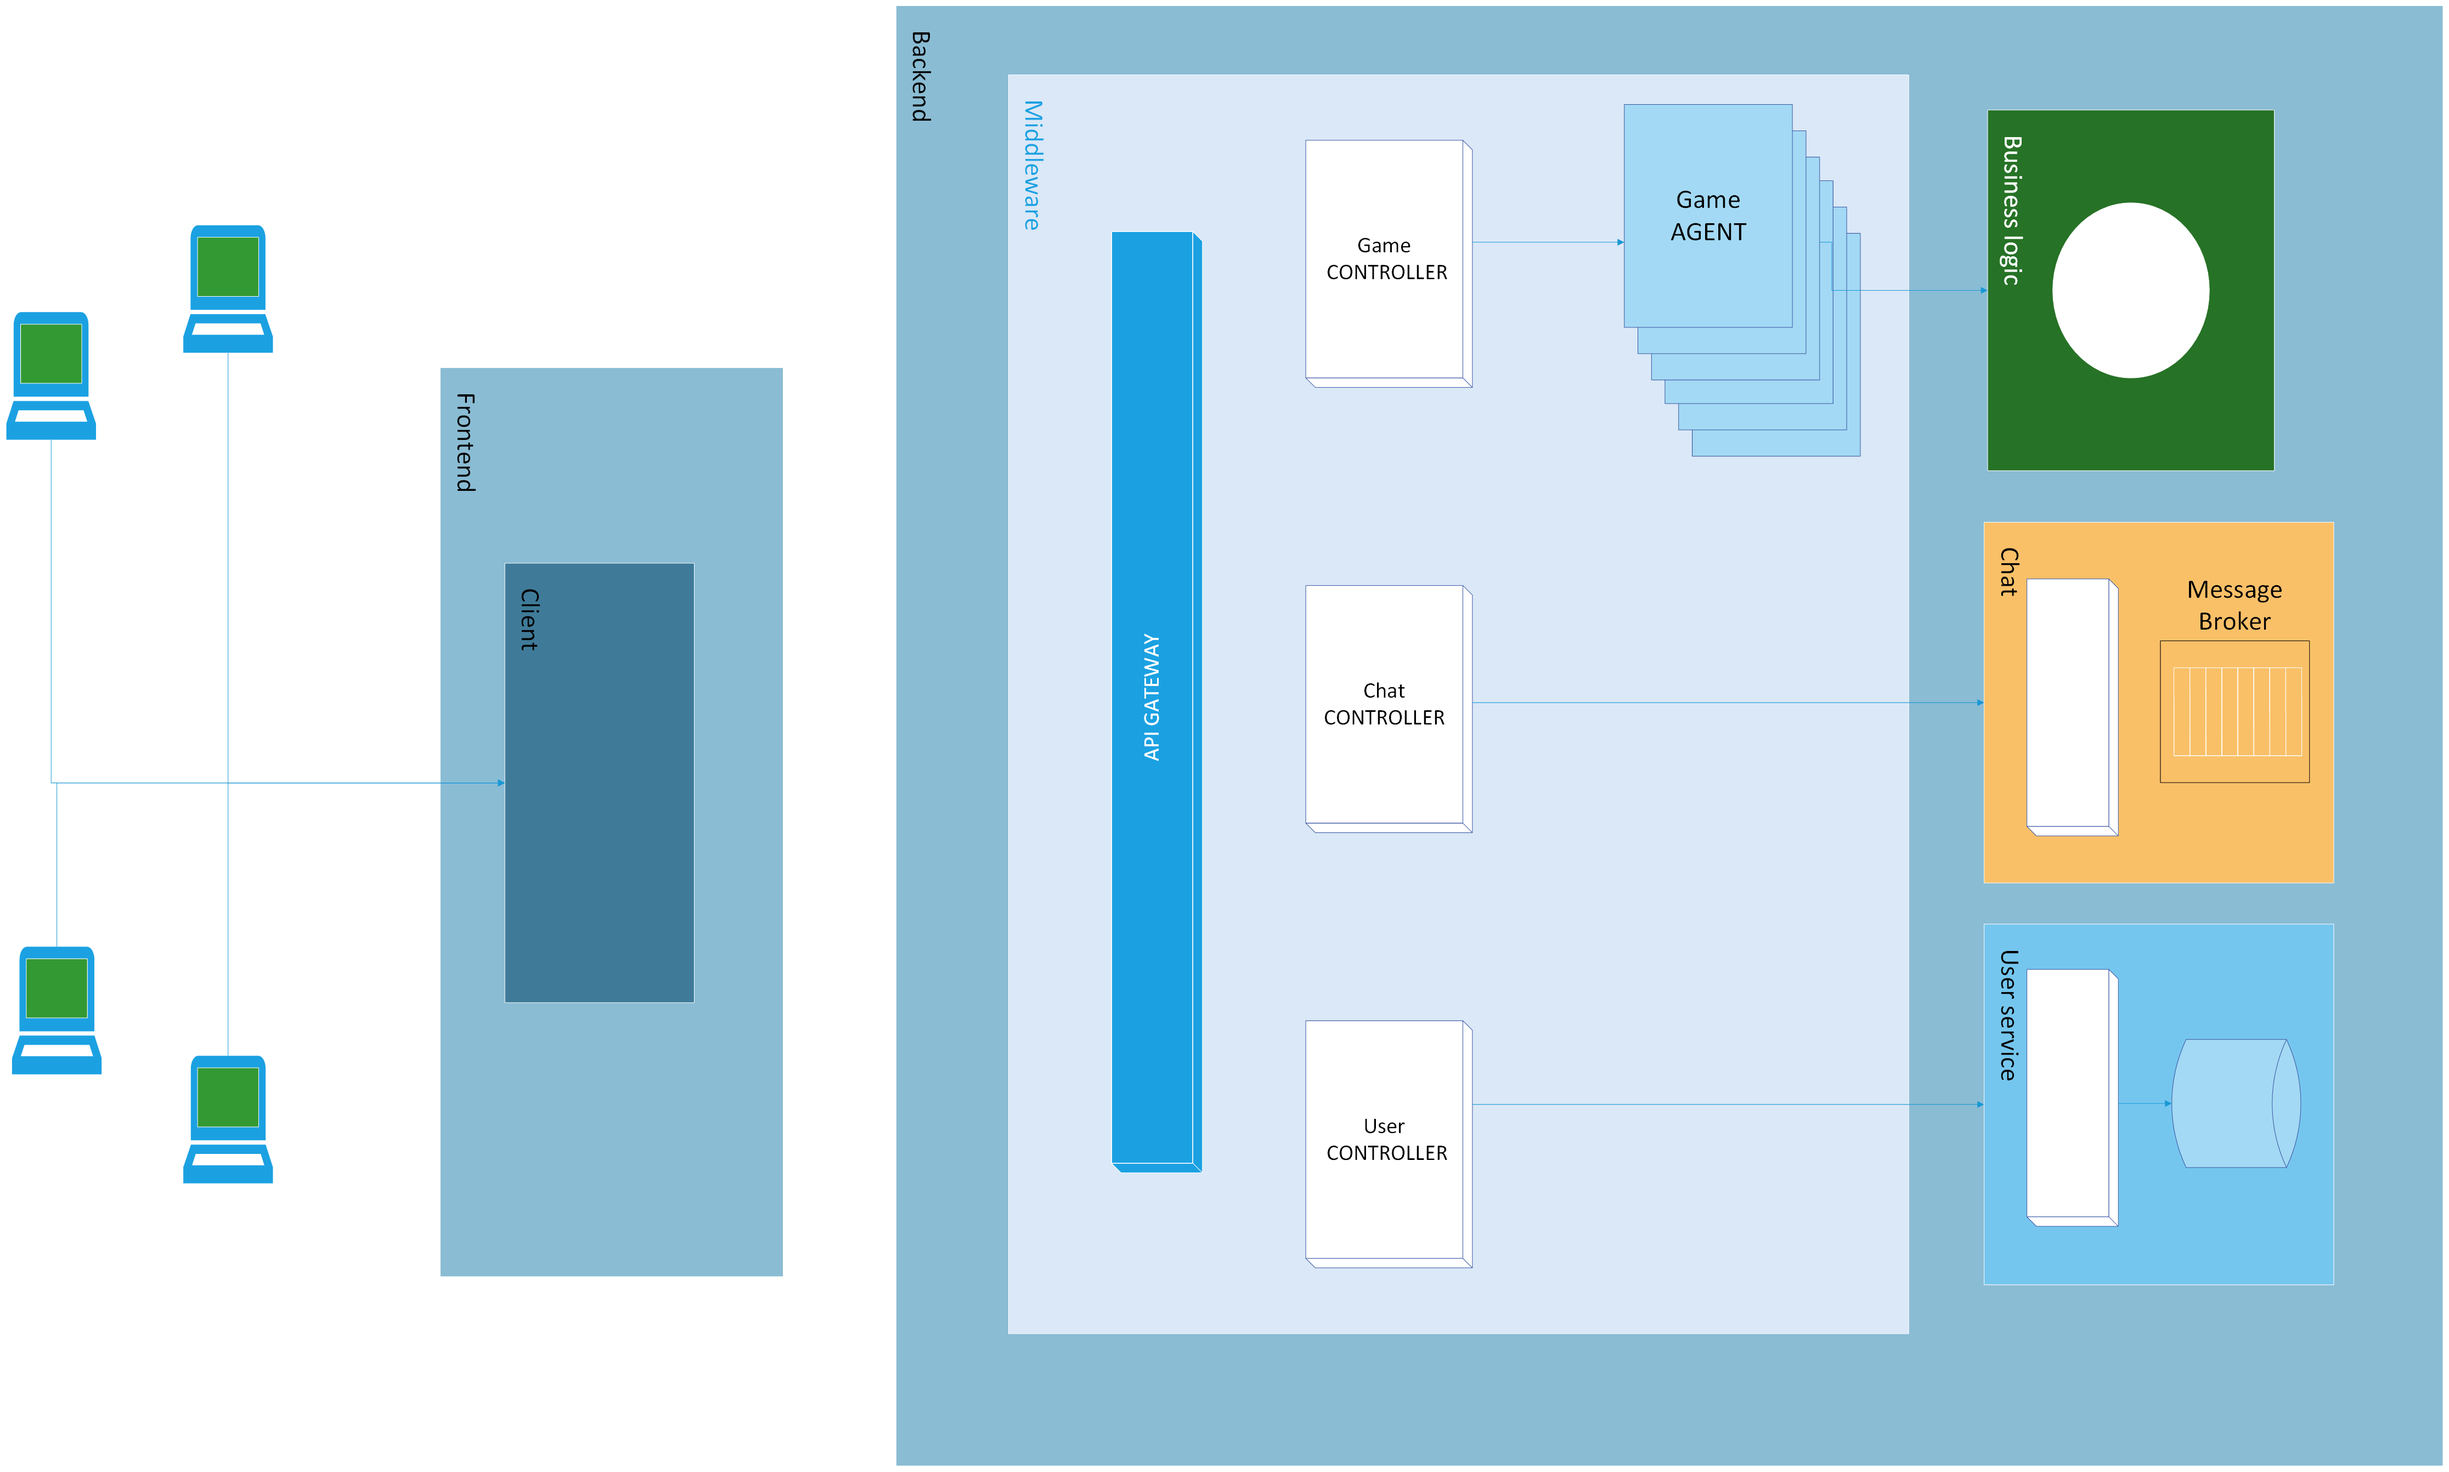
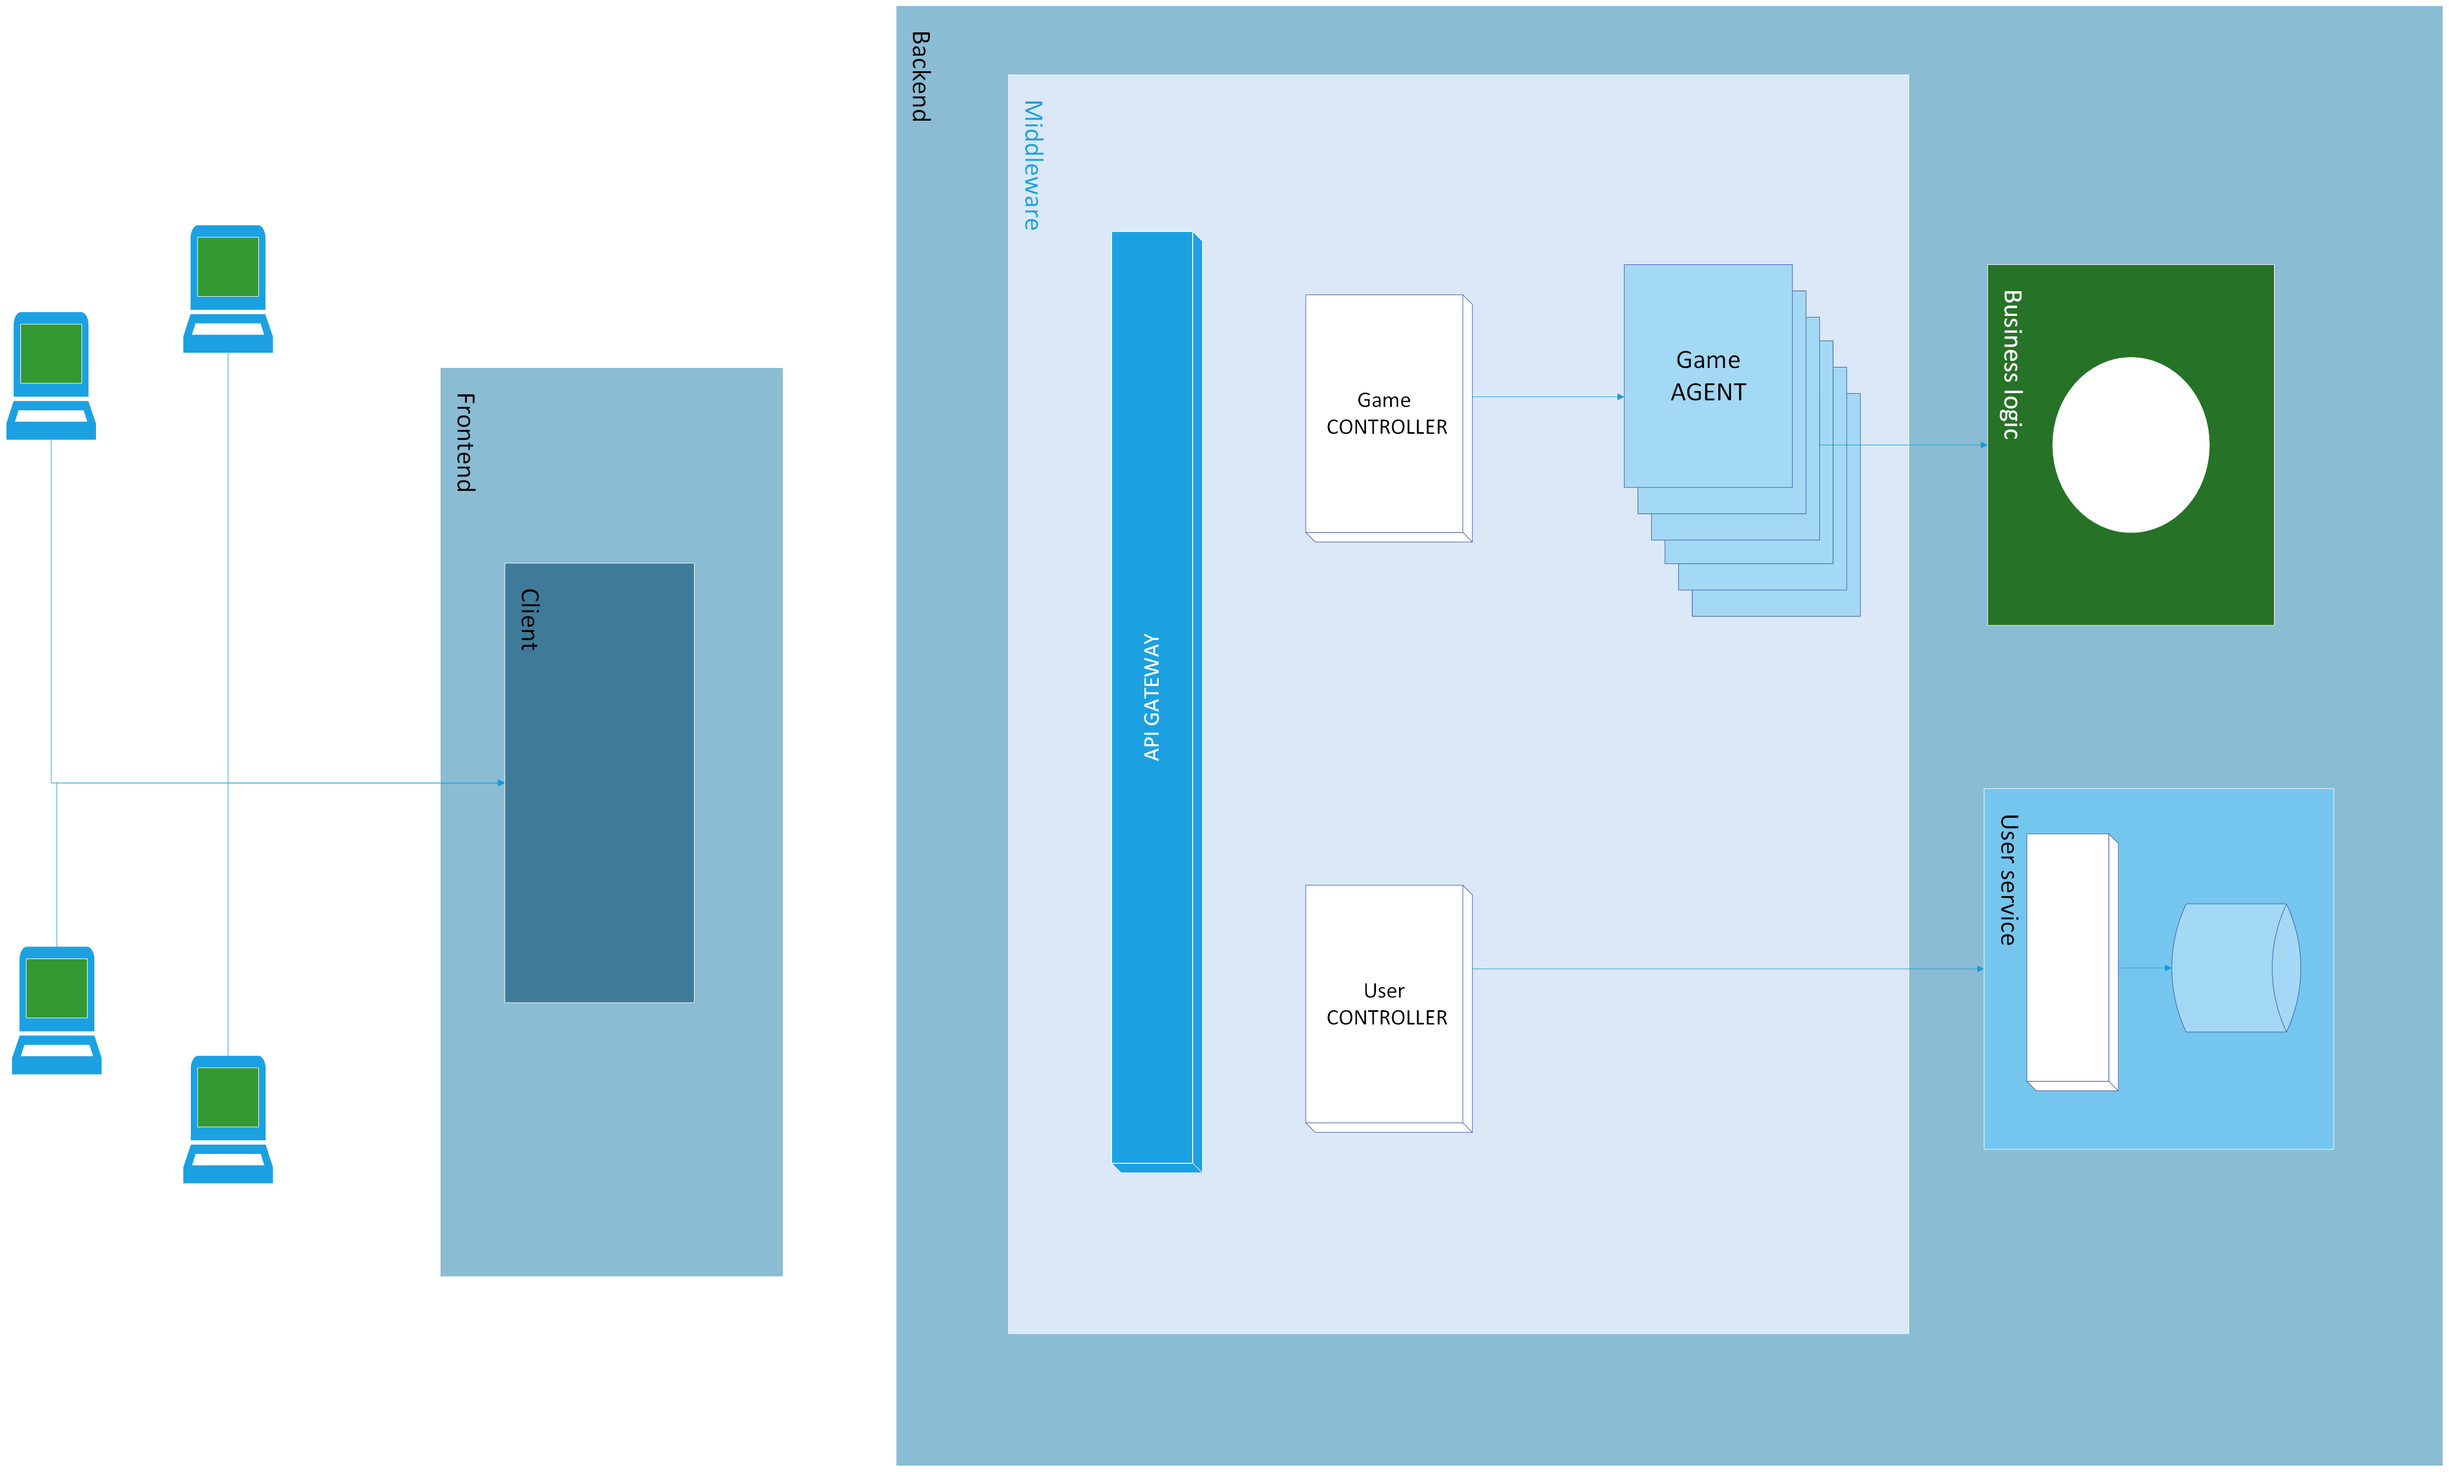
archit container

diff --git a/report/chapters/architectures.tex b/report/chapters/architectures.tex
@@ -173,6 +173,9 @@ Utilizza API REST per comunicare con il middleware e ottenere i dati necessari p
 
 \section{Middleware}
 
+
+\includegraphics[width=12cm]{report/img/middleware.png}\\[10.5cm]
+
 Come già citato, il middleware è il cuore del sistema. L'architettura utilizzata per la gestione delle partite è quella di un multi-agente, in cui ogni agente si occupa di gestire una partita 
 e di orchestrare la comunicazione con gli altri servizi, come ad esempio il front-end. Questo core è stato realizzato con Vertx, che è stato utilizzato anche per creare un web-server in Java.
 
@@ -185,9 +188,6 @@ Il pattern di progettazione utilizzato per la realizzazione del middleware è qu
 
 Nel nostro progetto, il client effettua semplici chiamate verso il middleware, che nei casi necessari effettua chiamate verso altri servizi per svolgere una determinata operazione.
 Queste chiamate non sono obbligatoriamente dirette verso il servizio interessato, ma possono anche essere routine che effettuano molteplici chiamate per ottenere il risultato desiderato. 
-Ad esempio, nel caso di una partita, considerando l'azione di giocare sul tavolo una carta da parte di un utente.
-Il middleware si occuperà di effettuare alcune chiamate verso il servizio di business
-logic per assicurarsi che la carta giocata in quel momento sia valida rispetto alle altre presenti sul tavolo virtuale e di conteggiare effettivamente i punti della mano nel caso in cui tutti i giocatori abbiano giocato una carta.
 Implementare queste chiamate direttamente nel front-end avrebbe reso il codice molto più complesso e difficile da mantenere, e la gestione di partite multiple sarebbe stata molto più difficile.
 
 \vspace{1cm}
